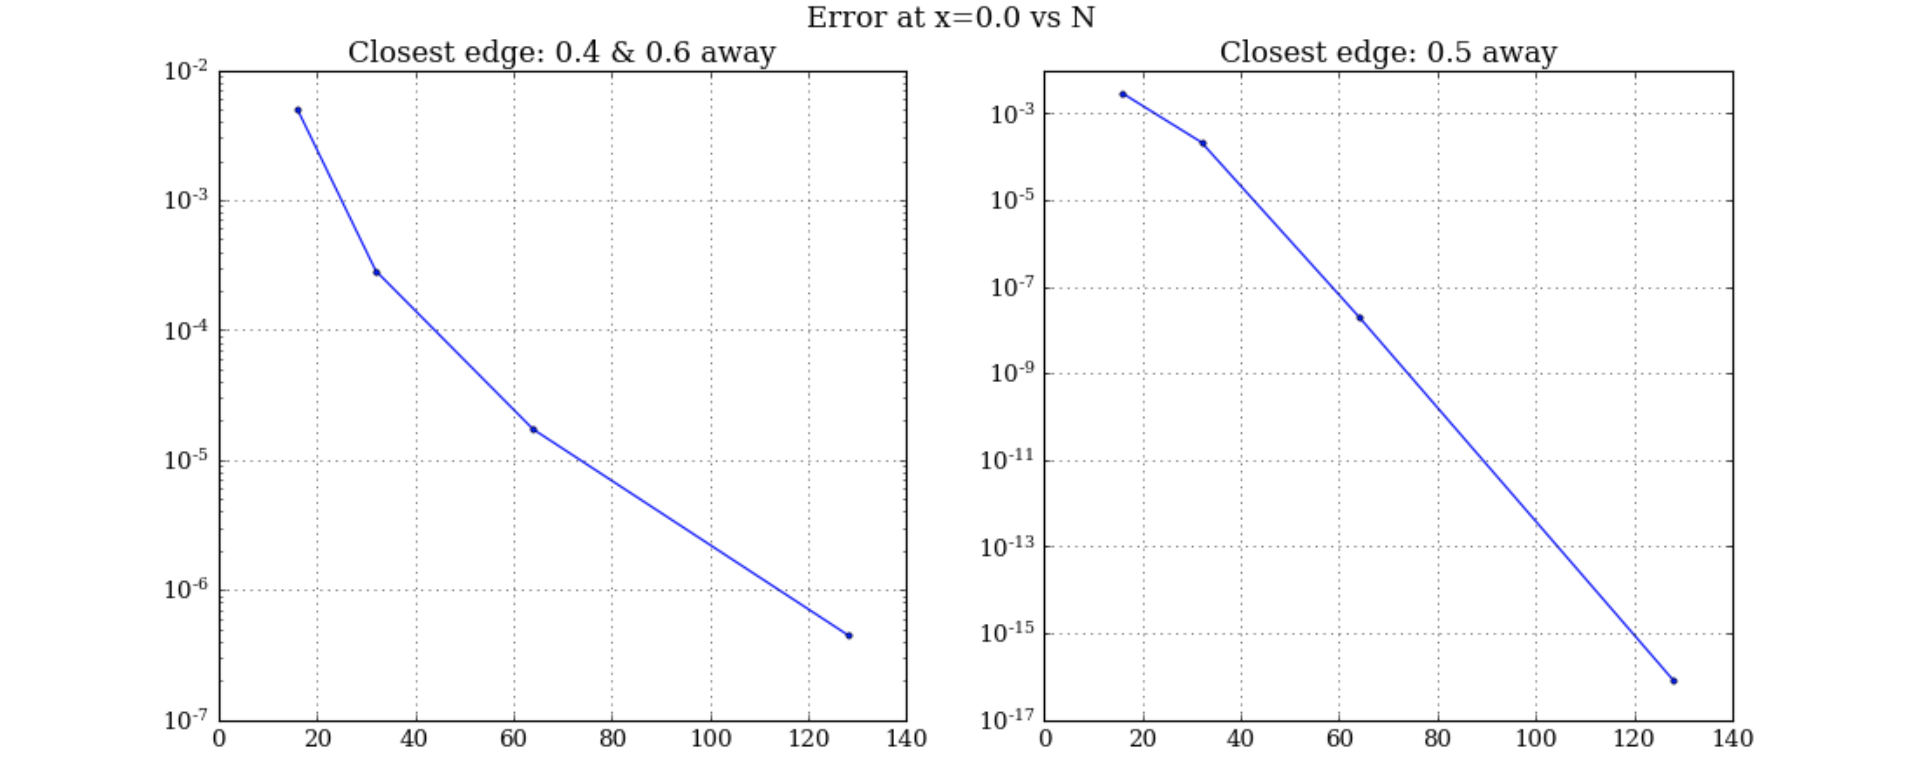
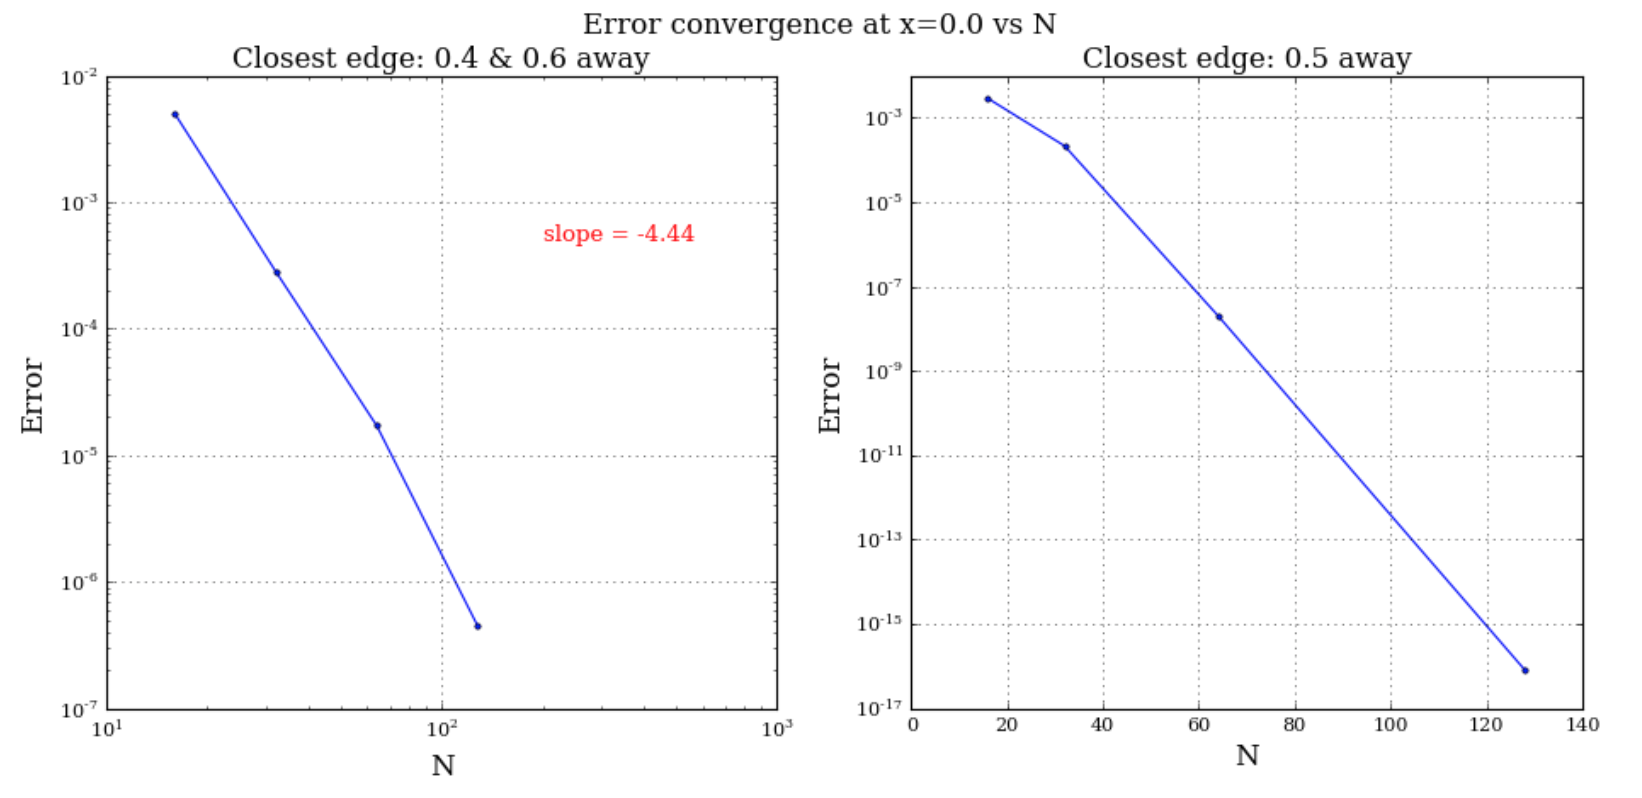
i

diff --git a/Cheb_Gauss_Lobato/mollification/README.md b/Cheb_Gauss_Lobato/mollification/README.md
@@ -87,6 +87,6 @@ Finally, to visualise directly the difference between the Gibbs phenomenon prese
 <br>
 --- <br>
 
-So, Jonah, by convergence plots you meant the ones below? :)
+Error convergence plots at x=0.0 (between 2 edges and 'far from edge' for the cases described before) are presented below:
 
 <img src="convergence.png" align='middle'/><br>
